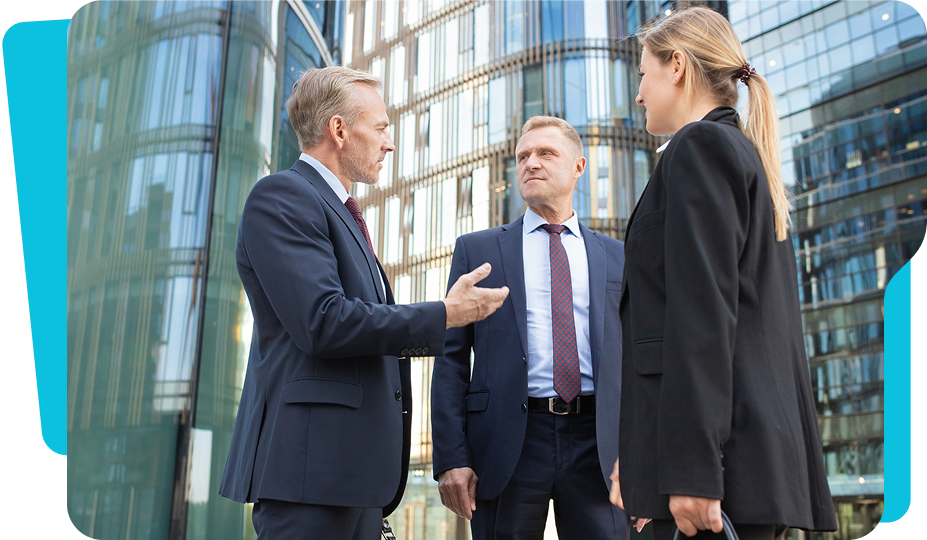
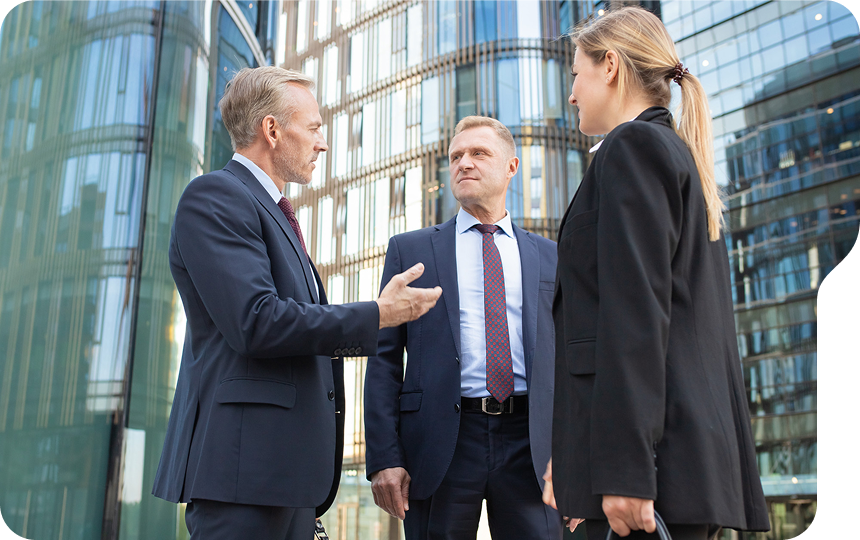
подправил мобильные стили

diff --git a/web/css/style.css b/web/css/style.css
@@ -578,6 +578,13 @@ body {
     flex-direction: column;
     gap: 24px;
 }
+@media (max-width: 768px) {
+    .cta_content {
+        width: 100%;
+        text-align: center;
+        align-items: center;
+    }
+}
 .cta_logo_image {
     height: auto;
     max-height: 30px;
@@ -615,12 +622,20 @@ body {
     font-weight: 600;
     align-self: flex-start;
 }
+@media (max-width: 768px) {
+    .cta_button {
+        align-self: center;
+    }
+}
 .cta_image_wrapper {
     position: relative;
     width: 100%;
     height: 350px;
     border-radius: 12px;
-    overflow: hidden;
+    overflow: visible;
+    display: flex;
+    align-items: center;
+    justify-content: center;
 }
 @media (max-width: 1024px) {
     .cta_image_wrapper {
@@ -632,24 +647,55 @@ body {
         height: 250px;
     }
 }
-.cta_image_shape {
+.cta_image_background {
     position: absolute;
-    top: 0;
-    left: 0;
-    width: 200px;
-    height: 200px;
-    background: rgba(0, 179, 255, 0.2);
-    border-radius: 50%;
-    transform: translate(-50px, -50px);
+    width: 40%;
+    height: 40%;
+    background-image: url('../img/cta_team.png');
+    background-size: cover;
+    background-position: center;
+    background-repeat: no-repeat;
+    border-radius: 20px;
     z-index: 1;
 }
+.cta_image_background_left {
+    left: -8%;
+    top: 42%;
+    transform: translateY(-50%) rotate(82deg);
+}
+.cta_image_background_right {
+    right: -2%;
+    top: 60%;
+    transform: translateY(-50%) rotate(85deg);
+}
 .cta_image {
-    width: 100%;
-    height: 100%;
+    width: 90%;
+    height: 90%;
     object-fit: cover;
+    border-radius: 12px;
     position: relative;
     z-index: 2;
 }
+@media (max-width: 1024px) {
+.cta_image_background {
+    width: 45%;
+    height: 45%;
+}
+.cta_image_background_left {
+    left: -6%;
+    top: 42%;
+    transform: translateY(-50%) rotate(82deg);
+}
+.cta_image_background_right {
+    right: -2%;
+    top: 55%;
+    transform: translateY(-50%) rotate(85deg);
+}
+}
+@media (max-width: 768px) {
+.cta_image_background {
+    display: none;
+}}
 /* END CTA SECTION */
 
 /* FOOTER */
@@ -685,6 +731,12 @@ body {
     flex-direction: column;
     gap: 15px;
 }
+@media (max-width: 768px) {
+    .footer_left {
+        text-align: center;
+        align-items: center;
+    }
+}
 .footer_contact p {
     font-size: 15px;
     line-height: 1.8;
@@ -713,6 +765,13 @@ body {
     flex-direction: column;
     gap: 10px;
 }
+@media (max-width: 768px) {
+    .footer_right {
+        width: 100%;
+        text-align: center;
+        align-items: center;
+    }
+}
 .footer_title {
     font-size: 24px;
     font-weight: 700;
@@ -723,6 +782,7 @@ body {
 @media (max-width: 768px) {
     .footer_title {
         font-size: 20px;
+        text-align: center;
     }
 }
 .footer_description {
@@ -731,6 +791,11 @@ body {
     color: #ffffff;
     margin: 0;
     text-align: left;
+}
+@media (max-width: 768px) {
+    .footer_description {
+        text-align: center;
+    }
 }
 .footer_copyright {
     text-align: center;

diff --git a/web/index.php b/web/index.php
@@ -4,6 +4,9 @@
     <meta charset="UTF-8">
     <meta name="viewport" content="width=device-width, initial-scale=1.0, maximum-scale=1.0, user-scalable=no, viewport-fit=cover">
     <title>Cadipel</title>
+    <link rel="icon" type="image/png" href="img/icons/logo_icon.png">
+    <link rel="shortcut icon" type="image/png" href="img/icons/logo_icon.png">
+    <link rel="apple-touch-icon" href="img/icons/logo_icon.png">
     <link rel="stylesheet" href="css/style.css">
     <script src="js/i18n.js"></script>
 </head>

diff --git a/web/includes/landing.php b/web/includes/landing.php
@@ -135,7 +135,8 @@
             <a href="#" class="cta_button" data-i18n="cta_button">Agendar reunión</a>
         </div>
         <div class="cta_image_wrapper">
-            <div class="cta_image_shape"></div>
+            <div class="cta_image_background cta_image_background_left"></div>
+            <div class="cta_image_background cta_image_background_right"></div>
             <img src="img/team.png" class="cta_image">
         </div>
     </div>
